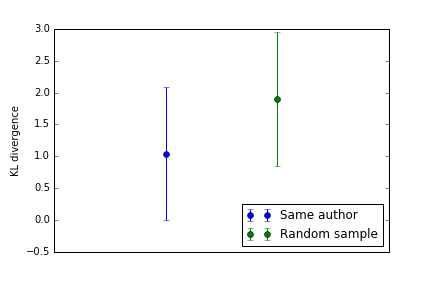
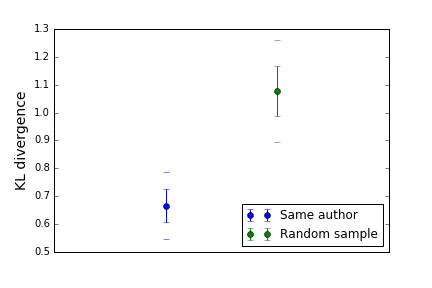
Update the kl validation fig. Edit and reorganize some text

diff --git a/paper/current/main.tex b/paper/current/main.tex
@@ -33,9 +33,9 @@ Many creative cultural products in human history are centered around a common to
 In the contemporary pop culture, this tradition is sometimes found in a new form --- fan works. Sometimes defined more formally as transformative works, they are creative works made by fans based on one or more original works, and are often centered around certain characters or story lines\cite{wiki:transf_work}. For example, a story written by a contemporary fan about Sherlock Holmes in his retirement is considered a fan work. Although fan works contain multiple media types such as art, music and games, one of the most common type is creative writing---fanfictions. People interested in such activities often 
 connect and interact with each other, forming communities known as fandoms\cite{wiki:fandom}.
 
-Similar to other creative works, fanfictions are constantly under selection and evaluation of their readers. The most successful fanfictions may be published and even adapted into other media forms (for example, \emph{Fifty Shades of Grey} was originally a fanfiction of \emph{Twilight}). Meanwhile, most fictions remain fairly unpopular.
+Similar to other creative works, fanfictions are constantly under selection and evaluation of their readers. The most successful fanfictions may be published and even adapted into other media forms (for example, \emph{Fifty Shades of Grey} was originally a fanfiction of \emph{Twilight}). Meanwhile, most of them remain fairly unpopular.
 
-This project tries to study what makes fanfictions popular in fandoms. Data for the study comes from Archive of Our Own (AO3). This site hosts fan works --- mainly fanfictions --- that users upload and their metadata, and categorizes them based on fandoms. Established in 2010, it has become one of the most popular transformative work archives. We collected fanfictions from 50 fandoms according to AO3's list of most popular fandoms as of March 2016 \footnote{from this list: \url{http://archiveofourown.org/media}}. To avoid duplication, we remove fandoms with heavy overlapping (e.g.: we keep \emph{Marvel} and removed \emph{Marvel movies}. Fandoms that cover diverse topics (e.g.\emph{k-pop} are also removed. Finally, we only kept the fictions written in English. This leaves us with  fictions from 25 fandoms. The number of fictions in each fandom is shown in Figure \ref{fig:fandom_size}.
+This project tries to study what makes fanfictions popular in fandoms. Data for the study comes from Archive of Our Own (AO3). This site hosts fan works --- mainly fanfictions --- that users upload and their metadata, and categorizes them based on fandoms. Established in 2010, it has become one of the most popular transformative work archives. We collected fanfictions from 50 fandoms according to AO3's list of most popular fandoms as of March 2016 \footnote{from this list: \url{http://archiveofourown.org/media}}. To avoid duplication, we remove fandoms with heavy overlapping (e.g.: we keep \emph{Marvel} and removed \emph{Marvel movies}). Fandoms that cover diverse topics (e.g.\emph{k-pop}) are also removed. Finally, we only kept the fictions written in English. This leaves us with 2,034,169 fictions from 25 fandoms. The number of fictions in each fandom is shown in Figure \ref{fig:fandom_size}.
 
 \begin{figure}[htbp]
 \begin{center}
@@ -51,7 +51,7 @@ Besides the work texts, we also collected metadata including 23 fields that can 
 \begin{table}[htp]
 \caption{Metadata of the writings}
 \begin{center}
-\begin{tabular}{p{2cm}|p{3cm}|p{5cm}}
+\begin{tabular}[width=0.8\textwidth]{p{2cm}|p{3cm}|p{5cm}}
   \hline			
  & Fields & Description\\ 
    \hline			
@@ -71,25 +71,7 @@ readers, warnings for controversial themes, etc
 \end{table}%
 
 Among the metadata fields, we're especially interested in the fields ``Hits" and ``Kudos", which shows how many times a fiction has been clicked or liked by readers. These are useful proxies for the popularity of a piece of work in a specific fandom.
-
-We model the fictions with a unigram language model. The Good-Turing smoothing\cite{gales1995good} is applied to assign non-zero probabilities to previously unseen unigrams. When creating the unigram list, we also remove the rare unigrams that appear in less than 5 documents.
-
-\begin{figure}[htbp]
-\begin{center}
-\includegraphics[width=0.6\textwidth]{/kl_validation.png}
-\caption{KL divergence between fictions from the same author and fictions from different authors in the Shakespeare fandom. The blue point: the author with highest number of fictions in this fandom. The average KL divergence between each pair of his/her fictions is computed with error bar generated by bootstrap resampling. The green point: The computation repeated on a random example with the same size.}
-\label{fig:kl_validation}
-\end{center}
-\end{figure}
-
-This transformation allows us to apply many text analysis methods. We choose to use the Kullback--Leibler divergence to measure the distance between texts. Under this measurement, fictions from the same author are more similar and have a smaller KL divergence between each other, compared to fictions from different authors, as shown in Figure \ref{fig:kl_validation}.
-
-\paragraph{} We further define the concept of a \emph{typical} fiction. A typical fiction of a time period is the average of probability distributions of all fictions in that time period. This allows us to calculate the KL divergence between any fiction and the typical fiction. We then attempt to analyze the relation between a fiction's distance to the typical fiction and the Kudos or Hits that it receive. Because the general distribution of Kudos and Hits follow long-tail distributions (see Figure \ref{fig:long_tail}), log-transformation is applied to balance out this effect. 
-
-% Reorganize and discuss on kudos/hits/distribution
-
-\paragraph{} Figure \ref{fig:kl_fields} shows a overall descending pattern in Kudos and Hits when KL divergence increases, with the exception of two fandoms ``original work" and ``shakespeare works". It is also interesting to consider ``original work", because as s specific category in AO3, it contains original stories instead of fanfictions. Its standing out indicated that the other fandoms may indeed have some behavior in common. 
-
+Both statistics have power-law-like distribution, as shown in  Figure \ref{fig:long_tail}, proving our conception that the popularity of fictions is very imbalanced: most fictions are rarely read and receive little Kudos, while very few get the majority of views and Kudos.
 
 \begin{figure}[htbp]
 \begin{center}
@@ -99,6 +81,26 @@ Kudos is steeper, indicating there are more fictions that receive little or no K
 \label{fig:long_tail}
 \end{center}
 \end{figure}
+
+We model the fictions with a unigram language model. The Good-Turing smoothing\cite{gales1995good} is applied to assign non-zero probabilities to previously unseen unigrams. When creating the unigram list, we also remove the rare unigrams that appear in less than 5 documents.
+
+This transformation allows us to apply many text analysis methods. We choose to use the Kullback--Leibler divergence to measure the distance between texts. Under this measurement, fictions from the same author are more similar and have a smaller KL divergence between each other, compared to fictions from different authors, as shown in Figure \ref{fig:kl_validation}.
+
+\begin{figure}[htbp]
+\begin{center}
+\includegraphics[width=0.6\textwidth]{/kl_validation.png}
+\caption{KL divergence between fictions from the same author and fictions from different authors in the Shakespeare fandom. The blue point: The average KL divergence of fictions from same authors. KL divergence of fictions from each author is calculated as the average KL divergence between each pair of her fictions. The green point: The computation repeated on random examples with the same size. The error bars are computed with the bootstrap resampling method. }
+\label{fig:kl_validation}
+\end{center}
+\end{figure}
+
+We further define the concept of a \emph{typical} fiction. A typical fiction of a time period is the average of probability distributions of all fictions in that time period (a month in this study). This allows us to calculate the KL divergence between any fiction and the typical fiction. We then attempt to analyze the relation between a fiction's distance to the typical fiction and the Kudos or Hits that it receives. Because of the long-tailed distribution of Kudos and Hits as described above, log-transformation is applied to the two statistics to balance out this effect. 
+% Reorganize and discuss on kudos/hits/distribution
+ 
+Figure \ref{fig:kl_fields} shows a overall descending pattern in Kudos and Hits when KL divergence increases, with the exception of two fandoms ``original work" and ``shakespeare works". It is also interesting to consider ``original work", because as s specific category in AO3, it contains original stories instead of fanfictions. Its standing out indicated that the other fandoms may indeed have some behavior in common. 
+
+
+
 
 
 \begin{figure*}[t!]
